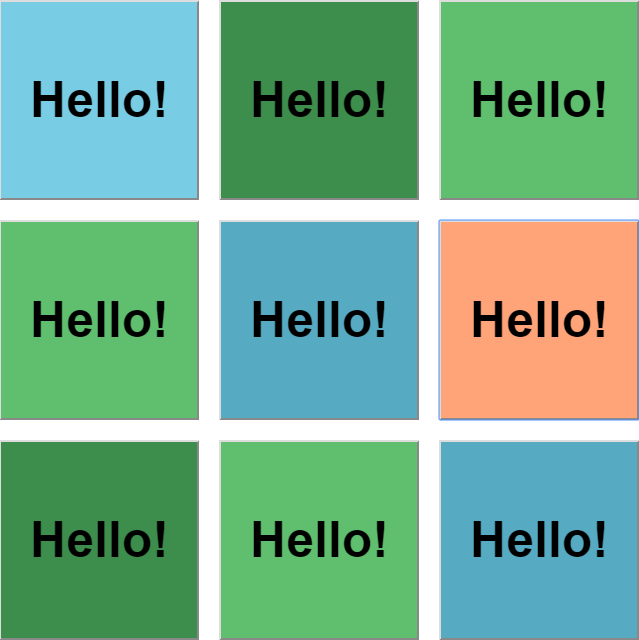
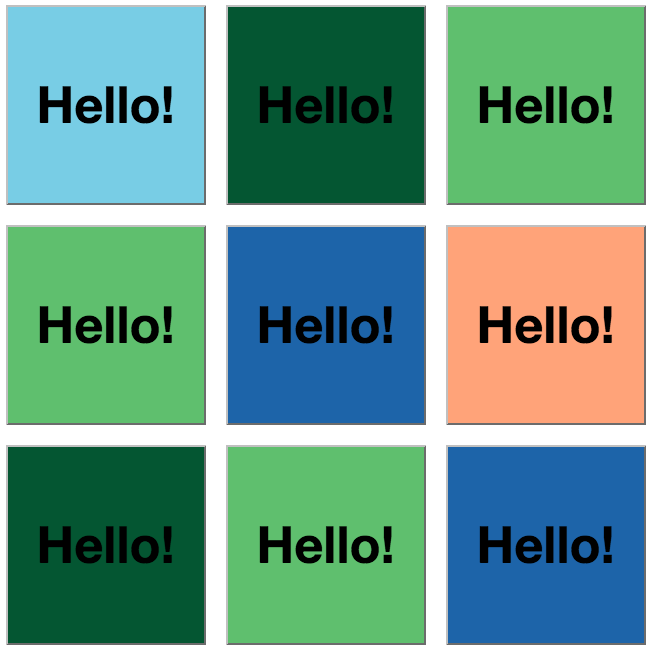
Switched answer key location, dynamic rules appear, current level displayed

diff --git a/Buttons/main.js b/Buttons/main.js
@@ -21,23 +21,21 @@ function restartGame() {
 // Loads a level based on the array passed in
 function loadLevel(startArr) {
 	document.getElementById('buttonArea').innerHTML = '';
+	document.getElementById('buttonArea').appendChild(createAnswerKey(startArr));
+
 	buttonArr = [];
 	var rowsNeeded = Math.sqrt(startArr.length);
 	var rowsArr = [];
 	var check = 'level' + (currentLevel + 1) + 'Check(this)';
 
-	var newKey = document.createElement('img');
-	newKey.setAttribute('src', 'Buttons/images/level' + (currentLevel + 1) + 'key.png');
-	newKey.setAttribute('alt', 'Answer for Grid');
-	newKey.setAttribute('id', 'answerPhoto');
-	document.getElementById('answerKey').appendChild(newKey);
+	var grid = document.createElement('div');
+	grid.setAttribute('id', 'buttonGrid');
 
 	// Creates buttons based on array passed in
 	for (var i = 0; i < startArr.length; i++) {
 		var newButton = document.createElement('button');
 		newButton.setAttribute('id', 'button' + (i + 1));
 		newButton.setAttribute('onclick', check);
-		console.log(newButton);
 		buttonArr.push(newButton);
 		buttonArr[i].style.backgroundColor = startArr[i];
 		newButton.appendChild(document.createTextNode("Hello!"));
@@ -50,7 +48,7 @@ function loadLevel(startArr) {
 		newRow.setAttribute('id', 'row' + j);
 		newRow.style.display = 'block';
 		newRow.style.textAlign = 'center';
-		document.getElementById('buttonArea').appendChild(newRow);
+		grid.appendChild(newRow);
 		rowsArr.push(newRow);
 		
 		while (k < rowsNeeded * j) {
@@ -58,7 +56,59 @@ function loadLevel(startArr) {
 			k++;
 		}
 	}
+
+	// Creates level tracker for which level you're currently on
+	var levelTracker = document.createElement('h2');
+	levelTracker.appendChild(document.createTextNode('Current Level: ' + (currentLevel + 1)));
+	grid.appendChild(levelTracker);
+
+	document.getElementById('buttonArea').appendChild(grid);
 	
+}
+
+function createAnswerKey(startArr) {
+	// Create answer div
+	var answerKey = document.createElement('div');
+	answerKey.setAttribute('id', 'answerKey');
+
+	// Create heading label for answer box
+	var heading = document.createElement('h4');
+	heading.appendChild(document.createTextNode("Answer: "));
+	answerKey.appendChild(heading);
+
+	// Create image
+	var newKey = document.createElement('img');
+	newKey.setAttribute('src', 'Buttons/images/level' + (currentLevel + 1) + 'key.png');
+	newKey.setAttribute('alt', 'Answer for Grid');
+	newKey.setAttribute('id', 'answerPhoto');
+	answerKey.appendChild(newKey);
+	var daRulez = document.createElement('ul');
+
+	// Adds rules for only tiles that appear on the board
+	if (startArr.indexOf(dGreen) > -1) {
+		var greenRule = document.createElement('li');
+		greenRule.appendChild(document.createTextNode("Green Tiles: Themselves"));
+		daRulez.appendChild(greenRule);
+	}
+	if (startArr.indexOf(dBlue) > -1) {
+		var blueRule = document.createElement('li');
+		blueRule.appendChild(document.createTextNode("Blue Tiles: Themselves + 1 tile"));
+		daRulez.appendChild(blueRule);
+	}
+	if (startArr.indexOf(dOrange) > -1) {
+		var orangeRule = document.createElement('li');
+		orangeRule.appendChild(document.createTextNode("Orange Tiles: Themselves + 2 tile"));
+		daRulez.appendChild(orangeRule);
+	}
+	if (startArr.indexOf(dPurple) > -1) {
+		var purpleRule = document.createElement('li');
+		purpleRule.appendChild(document.createTextNode("Blue Tiles: Themselves + 1 tile"));
+		daRulez.appendChild(purpleRule);
+	}
+
+	answerKey.appendChild(daRulez);
+
+	return answerKey;
 }
 
 // Checks each time a button is clicked to see if the winning combo has appeared

diff --git a/Buttons/levelData.js b/Buttons/levelData.js
@@ -1,9 +1,11 @@
 var lBlue = 'rgb(120, 205, 229)';
-var dBlue = 'rgb(86, 171, 195)';
+var dBlue = 'rgb(29, 100, 169)';
 var lGreen = 'rgb(95, 191, 110)';
-var dGreen = 'rgb(61, 141, 76)';
+var dGreen = 'rgb(4, 86, 50)';
 var lOrange = 'rgb(255, 163, 121)';
-var dOrange = 'rgb(221, 113, 97)';
+var dOrange = 'rgb(164, 58, 0)';
+var lPurple = 'rgb(176, 72, 201)';
+var dPurple = 'rgb(85, 0, 141)';
 
 var gameData = [];
 var endData = [];
@@ -44,3 +46,16 @@ var level3End = [lBlue, dGreen, lGreen,
 
 endData.push(level3End);
 
+// Note: Need to change how the tile sizes work
+
+// var level4 = [dBlue, dGreen, dOrange, dGreen,
+// 			  dOrange, dBlue, dGreen, dOrange, 
+// 			  dGreen, dGreen, dBlue, dOrange, 
+// 			  dBlue, dBlue, dOrange, dGreen];
+
+// gameData.push(level4);
+
+// var level4end = [dBlue, lGreen, dOrange, dGreen,
+// 			  dOrange, dBlue, dGreen, lOrange, 
+// 			  dGreen, dGreen, lBlue, dOrange, 
+// 			  dBlue, dBlue, lOrange, dGreen];

diff --git a/Buttons/gameStyle.css b/Buttons/gameStyle.css
@@ -16,8 +16,8 @@ header {
 h1 {
 	display: inline;
     font-weight: bold;
-    font-size: 7em;
-    margin-left: 30%
+    font-size: 3em;
+	margin-left: 10%;
 } 
 
 img {
@@ -34,22 +34,37 @@ button {
 	font-weight: bold;
 }
 
+#buttonArea {
+	max-width: 80%;
+	margin: 0 auto;
+	margin-top: 50px;
+}
+
 #answerKey {
 	display: inline;
-	float left: 
+	margin-left: 15%;
+	margin-top: 10px;
+	max-width: 30%;
+	float: left;
 }
 
 #answerKey h4 {
 	display: inline;
 	font-weight: bold;
 	font-size: 3em;
-	margin-left: 50px;
+	vertical-align: top;
 }
 
-#buttonArea {
-	max-width: 80%;
+#buttonGrid {
+	display: inline;
+	max-width: 70%;
+	float: right;
+	margin-right: 32%;
+}
+
+#buttonGrid h2 {
 	margin: 0 auto;
-	margin-top: 50px;
+	text-align: center;
 }
 
 #startButton {
@@ -61,7 +76,7 @@ button {
 #endButton {
 	margin: 0 auto;
 	display: block;
-	background: #A769FF;
+	background: #B94CD4;
 }
 
 #explanation {

diff --git a/index.html b/index.html
@@ -11,9 +11,6 @@
 <body>
 	<header>
 		<h1>Buttons!</h1>
-		<div id="answerKey">
-			<h4>Answer: </h4>
-		</div>
 	</header>
 	<div id="explanation">
 		<h3>Welcome to Buttons!</h3>
